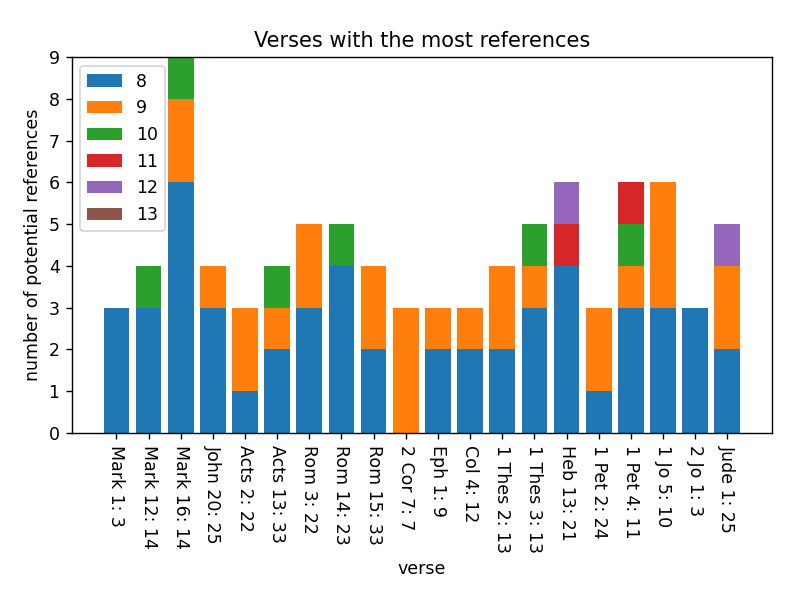
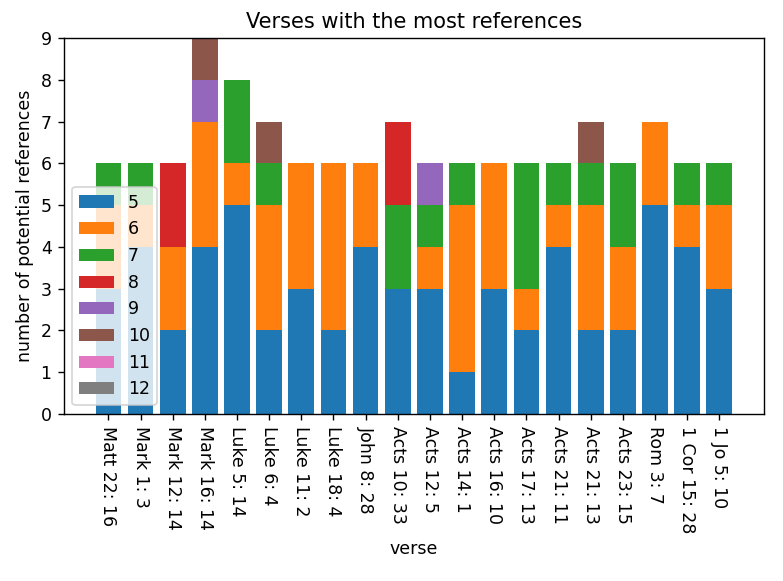
sample Images created

diff --git a/data_vis.py b/data_vis.py
@@ -12,7 +12,6 @@ gen_stacked_bar provides more comprehensive analysis on which verses are most re
 # plotting imports
 import numpy as np
 import matplotlib.pyplot as plt
-import json
 import pickle
 
 # open file to use
@@ -67,7 +66,7 @@ def gen_stacked_bar(num_bars = 50, match_threshold = 5, bible_ordered = True):
     # format data from file
     occur_dict = {}
     for clause in clause_data:
-        line_num, versemap = clause.identifier, clause.verses
+        versemap = clause.verses
         verse_data = list(versemap.items())
         verse_data.sort(key=lambda x: x[1], reverse = True)
         
@@ -204,6 +203,6 @@ def format_verse(vrs_str):
     return book, chap_num, verse_num
 
 # print(nt_dict[format_verse("Matthew028019")[0]][1])
-gen_stacked_bar(20, 8, True)
-gen_bars(3, 10, 8)
+gen_stacked_bar(20, 5, True)
+gen_bars(50, 10, 7)
 
